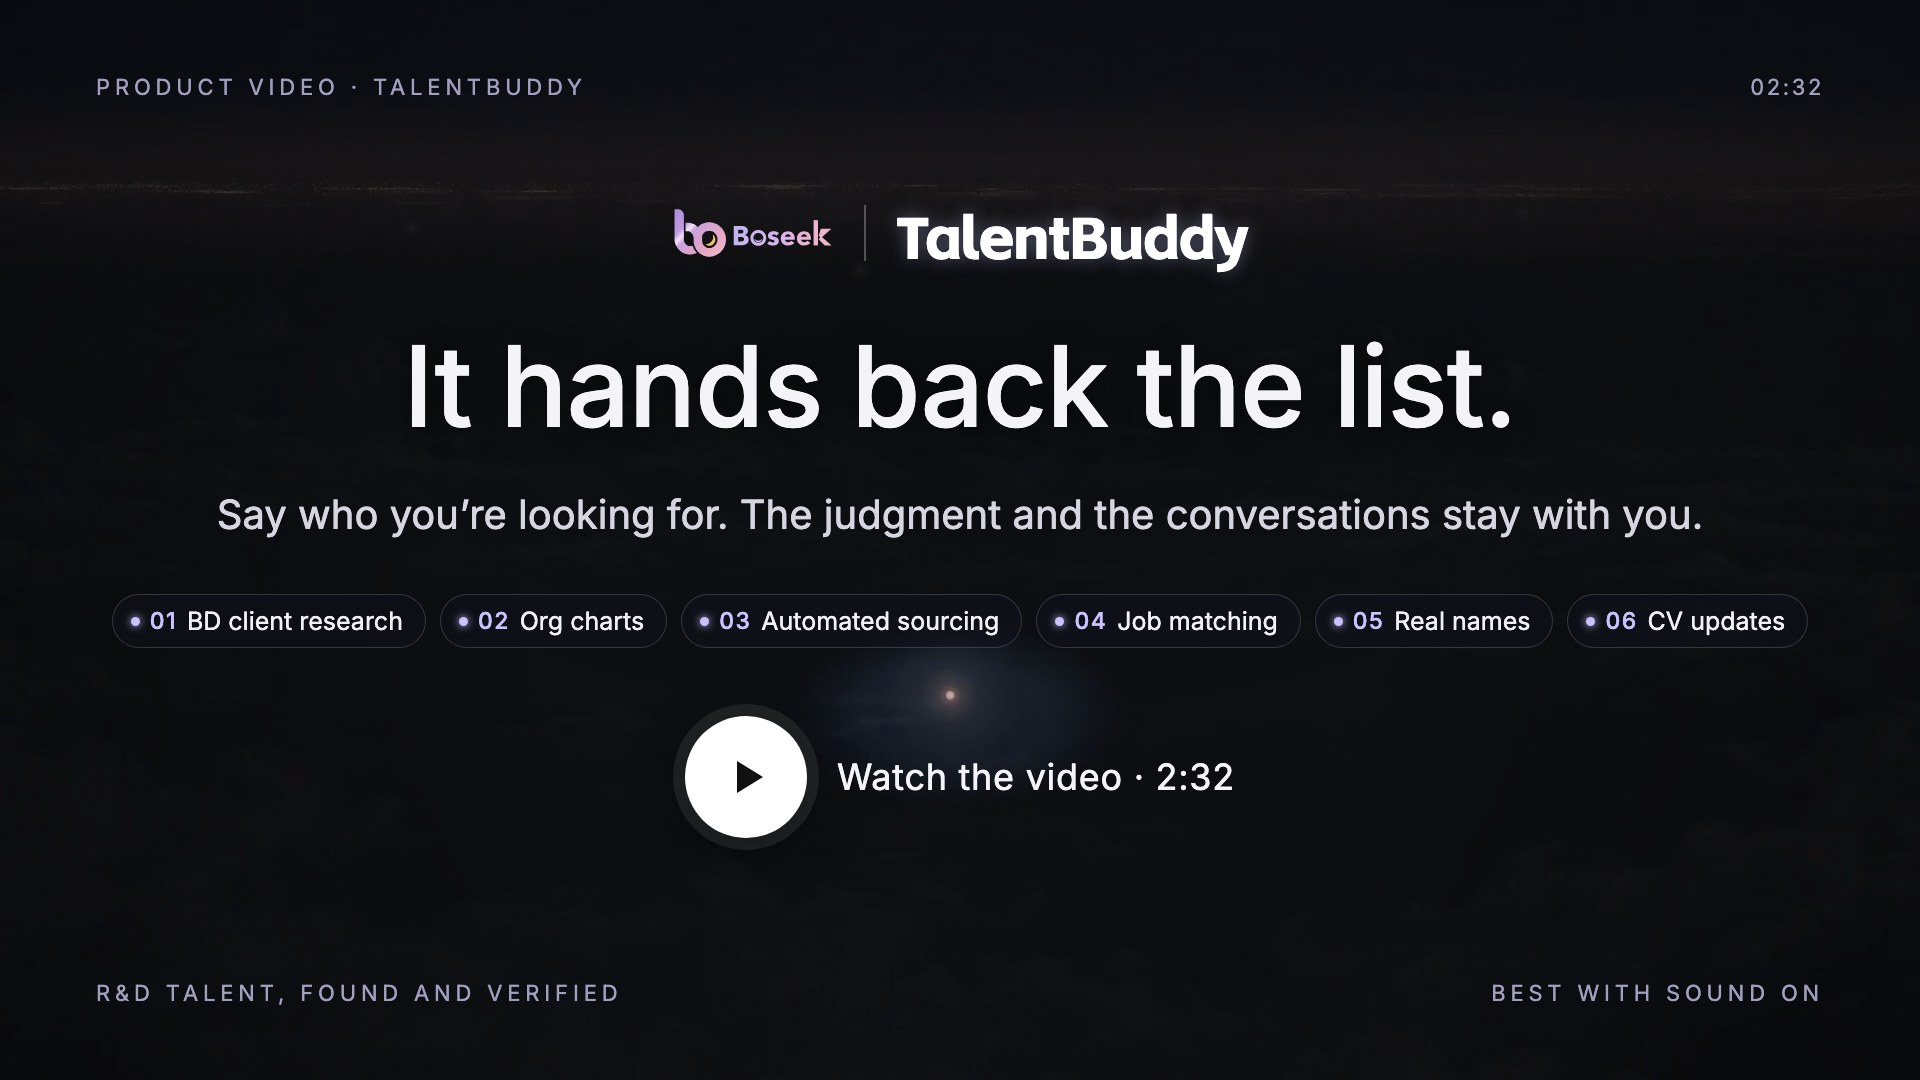
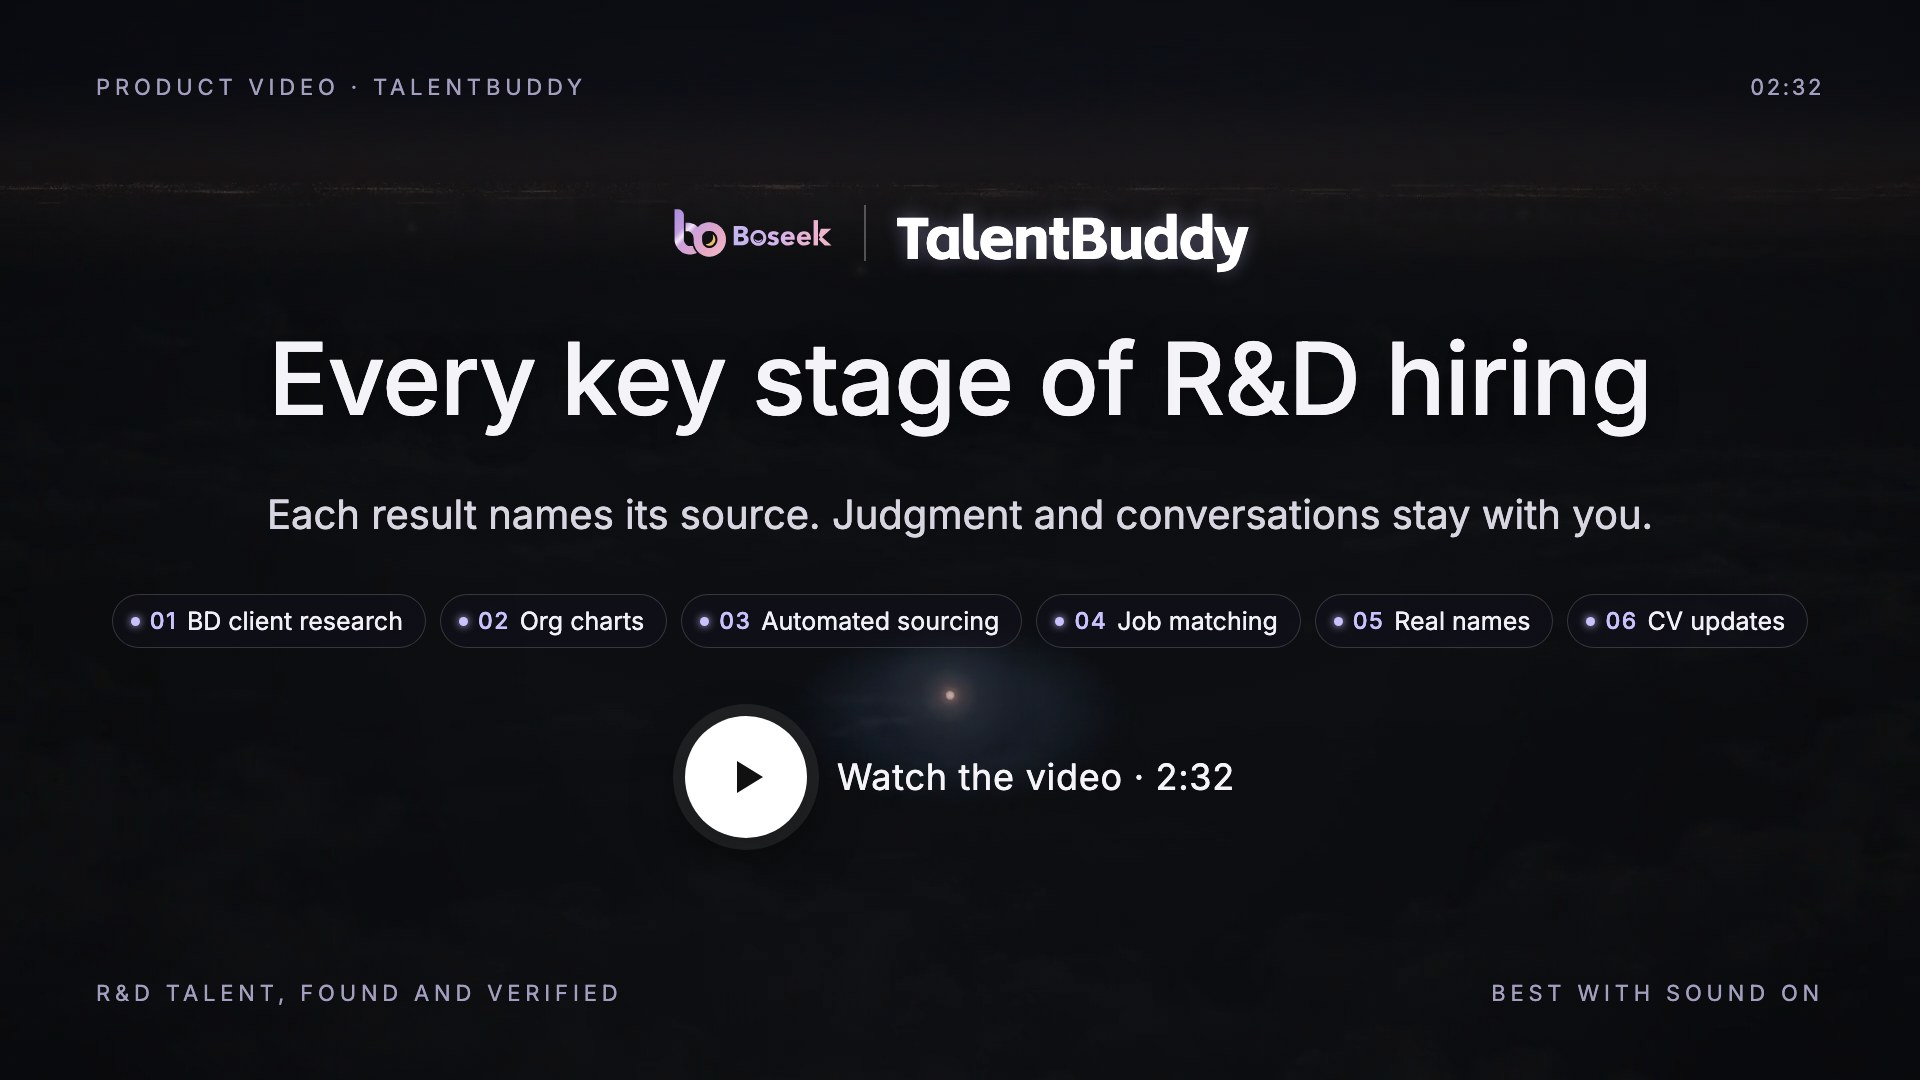
首屏副文压回两行；短片上方标题和短片封面改为“覆盖研发人才招聘的关键环节 / 每项结果均注明来源，判断与沟通由你完成”，简介列出全部六项能力

Changed region(s): [[0.125, 0.3056, 0.875, 0.4278], [0.0938, 0.4583, 0.875, 0.4889]]

diff --git a/public/landing-redesign/en/index.html b/public/landing-redesign/en/index.html
@@ -279,9 +279,8 @@
           <h1 class="n-mark" id="n-hero-title">TalentBuddy</h1>
           <p class="n-role">R&amp;D talent, found and verified</p>
           <p class="n-promise">
-            <span>Give it a role, a target company or a name, and get back a ranked candidate list, identity checks and an org chart, every item traceable to its source.</span>
-            <span>Papers, patents, code and your own CV database, searched together.</span>
-            <span>For search consultants, HR and talent leads, and CTOs and engineering leaders.</span>
+            <span>Papers, patents, code and CV databases, searched together.</span>
+            <span>Candidates, identities and org charts, every finding traceable to its source.</span>
           </p>
           <div class="n-actions">
             <a class="n-btn n-btn-light" href="#apply">Request a trial</a>
@@ -295,11 +294,11 @@
         <div class="n-wrap">
           <p class="n-kicker">What TalentBuddy does</p>
           <h2 class="n-display" id="n-intro-title">
-            <span>Say who you’re looking for, and it hands back a list.</span>
-            <span>The judgment and the conversations stay with you.</span>
+            <span>Every key stage of hiring R&amp;D talent, covered.</span>
+            <span>Each result names its source. Judgment and conversations stay with you.</span>
           </h2>
           <p class="n-lede">
-            Six capabilities, one for each stage of hiring R&amp;D talent, and each one hands back a concrete result.
+            Sourcing, job matching, identity checks, BD client research, talent pool updates and org charts, each handing back a concrete result.
           </p>
           <figure class="n-film-frame" id="film" tabindex="-1">
             <video

diff --git a/public/landing-redesign/index.html b/public/landing-redesign/index.html
@@ -279,9 +279,8 @@
           <h1 class="n-mark" id="n-hero-title">TalentBuddy</h1>
           <p class="n-role">研发人才，找得到，也查得清</p>
           <p class="n-promise">
-            <span>给它一个岗位、一家目标公司或一个名字，拿回排好序的人选名单、身份核实结论和组织架构图，每一条都查得到出处。</span>
-            <span>论文、专利、代码和你的简历库，一起找。</span>
-            <span>适合猎头顾问、企业 HR 与招聘负责人、CTO 与技术负责人。</span>
+            <span>论文、专利、代码与简历库，一并检索。</span>
+            <span>人选、身份与组织架构，结论均可追溯来源。</span>
           </p>
           <div class="n-actions">
             <a class="n-btn n-btn-light" href="#apply">申请试用</a>
@@ -295,11 +294,11 @@
         <div class="n-wrap">
           <p class="n-kicker">TalentBuddy 能做什么</p>
           <h2 class="n-display" id="n-intro-title">
-            <span>你说要找谁，它交回名单。</span>
-            <span>判断和沟通，仍由你来。</span>
+            <span>覆盖研发人才招聘的关键环节。</span>
+            <span>每项结果均注明来源，判断与沟通由你完成。</span>
           </h2>
           <p class="n-lede">
-            六项能力，对应招聘研发人才的六个环节，每一项都交回一份具体结果。
+            人选寻访、人岗匹配、身份核实、BD 客户研判、人才库更新、组织架构梳理，每一项都交回一份具体结果。
           </p>
           <figure class="n-film-frame" id="film" tabindex="-1">
             <video

diff --git a/scripts/build-redesign-en-home.py b/scripts/build-redesign-en-home.py
@@ -140,18 +140,16 @@ r('aria-label="打开导航"', 'aria-label="Open navigation"')
 # ---------- hero ----------
 r('<span aria-hidden="true"></span>正在开发中，邀请制试用申请已开放', '<span aria-hidden="true"></span>In development. Applications for the invitation-only trial are open.')
 r('<p class="n-role">研发人才，找得到，也查得清</p>', '<p class="n-role">R&amp;D talent, found and verified</p>')
-r('<span>给它一个岗位、一家目标公司或一个名字，拿回排好序的人选名单、身份核实结论和组织架构图，每一条都查得到出处。</span>',
-  '<span>Give it a role, a target company or a name, and get back a ranked candidate list, identity checks and an org chart, every item traceable to its source.</span>')
-r('<span>论文、专利、代码和你的简历库，一起找。</span>', '<span>Papers, patents, code and your own CV database, searched together.</span>')
-r('<span>适合猎头顾问、企业 HR 与招聘负责人、CTO 与技术负责人。</span>', '<span>For search consultants, HR and talent leads, and CTOs and engineering leaders.</span>')
+r('<span>论文、专利、代码与简历库，一并检索。</span>', '<span>Papers, patents, code and CV databases, searched together.</span>')
+r('<span>人选、身份与组织架构，结论均可追溯来源。</span>', '<span>Candidates, identities and org charts, every finding traceable to its source.</span>')
 r('>看它交回什么</a>', '>See what it delivers</a>')
 
 # ---------- intro + film ----------
 r('<p class="n-kicker">TalentBuddy 能做什么</p>', '<p class="n-kicker">What TalentBuddy does</p>')
-r('<span>你说要找谁，它交回名单。</span>', '<span>Say who you’re looking for, and it hands back a list.</span>')
-r('<span>判断和沟通，仍由你来。</span>', '<span>The judgment and the conversations stay with you.</span>')
-r('六项能力，对应招聘研发人才的六个环节，每一项都交回一份具体结果。',
-  'Six capabilities, one for each stage of hiring R&amp;D talent, and each one hands back a concrete result.')
+r('<span>覆盖研发人才招聘的关键环节。</span>', '<span>Every key stage of hiring R&amp;D talent, covered.</span>')
+r('<span>每项结果均注明来源，判断与沟通由你完成。</span>', '<span>Each result names its source. Judgment and conversations stay with you.</span>')
+r('人选寻访、人岗匹配、身份核实、BD 客户研判、人才库更新、组织架构梳理，每一项都交回一份具体结果。',
+  'Sourcing, job matching, identity checks, BD client research, talent pool updates and org charts, each handing back a concrete result.')
 r('poster="../assets/film-poster.jpg?v=10"', 'poster="../assets/film-poster-en.jpg?v=7"')
 r('src="../assets/talentbuddy-film.mp4?v=10"', 'src="../assets/talentbuddy-film-en.mp4?v=7"')
 r('aria-label="TalentBuddy 产品短片"', 'aria-label="TalentBuddy product video"')
